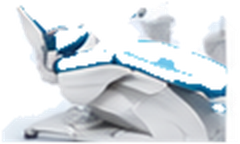
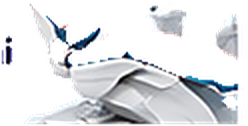
Match sidebar and card type, and clean the promo art.
Drop leftover letters from the sidebar illustrations, size the menu, chips, badges, and meta to the 1440 design, and download the cropped certificate image.

diff --git a/src/components/shop/desktop/market-frame.css b/src/components/shop/desktop/market-frame.css
@@ -42,12 +42,12 @@
 .brd-q .i { font-size: calc(.85 * var(--u)); }
 .brd-nav { display: flex; align-items: center; gap: calc(.15 * var(--u)); flex: none; }
 .brd-nav.tight { gap: calc(.04 * var(--u)); }
-.brd-nav.tight a { font-size: calc(.62 * var(--u)); padding: calc(.3 * var(--u)) calc(.26 * var(--u)) calc(.35 * var(--u)); }
+.brd-nav.tight a { font-size: calc(.92 * var(--u)); padding: calc(.3 * var(--u)) calc(.22 * var(--u)) calc(.35 * var(--u)); }
 .brd-nav.tight a.on::after { left: calc(.26 * var(--u)); right: calc(.26 * var(--u)); }
 .brd-nav a {
   position: relative;
-  font-size: calc(.68 * var(--u));
-  font-weight: 650;
+  font-size: calc(1 * var(--u));
+  font-weight: 600;
   color: #3d4f6a;
   padding: calc(.35 * var(--u)) calc(.4 * var(--u)) calc(.4 * var(--u));
   white-space: nowrap;
@@ -113,19 +113,19 @@
   display: flex;
   flex-direction: column;
 }
-.brd-navlist { display: flex; flex-direction: column; gap: calc(.08 * var(--u)); }
+.brd-navlist { display: flex; flex-direction: column; gap: calc(.42 * var(--u)); }
 .brd-item {
   display: flex;
   align-items: center;
-  gap: calc(.55 * var(--u));
-  min-height: calc(2.15 * var(--u));
+  gap: calc(.6 * var(--u));
+  min-height: calc(2.56 * var(--u));
   padding: 0 calc(.55 * var(--u));
   border-radius: calc(.45 * var(--u));
   color: #24344d;
-  font-size: calc(.68 * var(--u));
+  font-size: calc(1.07 * var(--u));
   font-weight: 600;
 }
-.brd-item .i { font-size: calc(.95 * var(--u)); color: #3d4f6a; }
+.brd-item .i { font-size: calc(1.42 * var(--u)); color: #3d4f6a; }
 .brd-item:hover { background: #eef3f9; }
 .brd-item.on { background: #e8f1ff; color: #0066ff; }
 .brd-item.on .i { color: #0066ff; }
@@ -133,16 +133,16 @@
 .brd-promo {
   margin-top: calc(.55 * var(--u));
   background: linear-gradient(180deg, #e8f3ff, #f4f8ff);
-  border-radius: calc(.6 * var(--u));
-  padding: calc(.65 * var(--u)) calc(.7 * var(--u)) calc(.7 * var(--u));
+  border-radius: calc(.7 * var(--u));
+  padding: calc(.7 * var(--u)) calc(.75 * var(--u)) calc(.75 * var(--u));
   position: relative;
   overflow: hidden;
-  min-height: calc(7.6 * var(--u));
+  min-height: calc(9.2 * var(--u));
   flex: none;
 }
 .brd-promo .crown { color: #e6b325; font-size: calc(1.1 * var(--u)); }
-.brd-promo b { display: block; margin-top: calc(.25 * var(--u)); font-size: calc(.72 * var(--u)); line-height: 1.25; max-width: calc(8.5 * var(--u)); }
-.brd-promo small { display: block; margin-top: calc(.15 * var(--u)); color: #5b6b82; font-size: calc(.56 * var(--u)); line-height: 1.35; max-width: calc(8.2 * var(--u)); }
+.brd-promo b { display: block; margin-top: calc(.25 * var(--u)); font-size: calc(1.22 * var(--u)); font-weight: 700; line-height: 1.25; max-width: calc(9.2 * var(--u)); }
+.brd-promo small { display: block; margin-top: calc(.15 * var(--u)); color: #5b6b82; font-size: calc(.86 * var(--u)); font-weight: 500; line-height: 1.35; max-width: calc(8.6 * var(--u)); }
 .brd-promo .go {
   margin-top: calc(.45 * var(--u));
   height: calc(1.7 * var(--u));
@@ -150,8 +150,8 @@
   border-radius: calc(.4 * var(--u));
   background: #0066ff;
   color: #fff;
-  font-size: calc(.62 * var(--u));
-  font-weight: 750;
+  font-size: calc(.92 * var(--u));
+  font-weight: 700;
   display: inline-flex;
   align-items: center;
   gap: calc(.2 * var(--u));
@@ -172,7 +172,7 @@
 .brd-main { flex: 1; min-width: 0; padding: calc(1.7 * var(--u)) calc(1 * var(--u)) calc(1.2 * var(--u)); }
 .brd-head { display: flex; align-items: flex-start; justify-content: space-between; gap: calc(.8 * var(--u)); margin-bottom: calc(2.1 * var(--u)); }
 .brd-head h1 { margin: 0; font-size: calc(3.05 * var(--u)); line-height: 1.15; letter-spacing: -.02em; }
-.brd-head p { margin: calc(.12 * var(--u)) 0 0; color: #6a7c93; font-size: calc(.72 * var(--u)); }
+.brd-head p { margin: calc(.12 * var(--u)) 0 0; color: #6a7c93; font-size: calc(.92 * var(--u)); font-weight: 500; }
 .brd-badge {
   flex: none;
   display: flex;
@@ -192,8 +192,8 @@
   place-items: center;
   font-size: calc(.95 * var(--u));
 }
-.brd-badge b { display: block; font-size: calc(.72 * var(--u)); color: #0066ff; }
-.brd-badge span { display: block; color: #6a7c93; font-size: calc(.56 * var(--u)); }
+.brd-badge b { display: block; font-size: calc(1 * var(--u)); font-weight: 700; color: #0066ff; }
+.brd-badge span { display: block; color: #6a7c93; font-size: calc(.86 * var(--u)); font-weight: 500; }
 
 .brd-tools { display: flex; gap: calc(.55 * var(--u)); margin-bottom: calc(1.6 * var(--u)); }
 .brd-search {
@@ -241,25 +241,25 @@
 .sh .brd-letters button {
   flex: 1;
   min-width: 0;
-  height: calc(1.7 * var(--u));
+  height: calc(2 * var(--u));
   border-radius: calc(.4 * var(--u));
   background: #fff;
   border: 1px solid #e6edf5;
   color: #5c6d84;
-  font-size: calc(.62 * var(--u));
-  font-weight: 750;
+  font-size: calc(.92 * var(--u));
+  font-weight: 650;
   padding: 0;
 }
 .sh .brd-letters button.all { flex: 1.7; }
 .sh .brd-letters button.on { background: #0066ff; border-color: #0066ff; color: #fff; }
 
-.brd-grid { display: grid; grid-template-columns: repeat(5, minmax(0, 1fr)); gap: calc(.55 * var(--u)); }
+.brd-grid { display: grid; grid-template-columns: repeat(5, minmax(0, 1fr)); gap: calc(.95 * var(--u)); }
 .brd-card {
   background: #fff;
   border: 1px solid #e8eef6;
-  border-radius: calc(.6 * var(--u));
+  border-radius: calc(.7 * var(--u));
   padding: calc(.55 * var(--u)) calc(.6 * var(--u)) calc(.5 * var(--u));
-  box-shadow: 0 calc(.06 * var(--u)) calc(.3 * var(--u)) rgba(20, 40, 80, .04);
+  box-shadow: 0 calc(.12 * var(--u)) calc(.7 * var(--u)) rgba(20, 40, 80, .08);
   display: flex;
   flex-direction: column;
   min-width: 0;
@@ -268,9 +268,9 @@
 .brd-card:hover { border-color: #c5d9ff; box-shadow: 0 calc(.15 * var(--u)) calc(.5 * var(--u)) rgba(0, 102, 255, .08); }
 .brd-mark { height: calc(4.5 * var(--u)); display: grid; place-items: center; }
 .brd-card h2 { margin: calc(.15 * var(--u)) 0 0; font-size: calc(1.07 * var(--u)); font-weight: 600; line-height: 1.2; }
-.brd-card .where { display: flex; align-items: center; gap: calc(.25 * var(--u)); margin-top: calc(.12 * var(--u)); color: #6a7c93; font-size: calc(.58 * var(--u)); }
+.brd-card .where { display: flex; align-items: center; gap: calc(.25 * var(--u)); margin-top: calc(.12 * var(--u)); color: #6a7c93; font-size: calc(.86 * var(--u)); font-weight: 500; }
 .brd-foot { margin-top: auto; display: flex; align-items: center; justify-content: space-between; gap: calc(.3 * var(--u)); padding-top: calc(.35 * var(--u)); }
-.brd-foot em { color: #0066ff; font-style: normal; font-weight: 750; font-size: calc(.62 * var(--u)); }
+.brd-foot em { color: #0066ff; font-style: normal; font-weight: 700; font-size: calc(.92 * var(--u)); }
 .brd-go {
   width: calc(1.45 * var(--u));
   height: calc(1.45 * var(--u));

diff --git a/src/components/shop/desktop/aksiyalar.css b/src/components/shop/desktop/aksiyalar.css
@@ -1,6 +1,6 @@
 .sh .ax-head { display: flex; align-items: flex-start; justify-content: space-between; gap: calc(.8 * var(--u)); margin-bottom: calc(1.3 * var(--u)); }
 .sh .ax-head h1 { margin: 0; font-size: calc(3.05 * var(--u)); line-height: 1.15; letter-spacing: -.02em; }
-.sh .ax-head p { margin: calc(.1 * var(--u)) 0 0; color: #6a7c93; font-size: calc(.72 * var(--u)); }
+.sh .ax-head p { margin: calc(.1 * var(--u)) 0 0; color: #6a7c93; font-size: calc(.92 * var(--u)); font-weight: 500; }
 .sh .ax-tools { display: flex; gap: calc(.45 * var(--u)); flex: none; }
 .sh .ax-search {
   width: calc(16 * var(--u));
@@ -42,26 +42,26 @@
 }
 .sh .ax-chips { display: flex; gap: calc(.35 * var(--u)); margin-bottom: calc(2.5 * var(--u)); flex-wrap: wrap; }
 .sh .ax-chips button {
-  height: calc(1.7 * var(--u));
-  padding: 0 calc(.7 * var(--u));
+  height: calc(2 * var(--u));
+  padding: 0 calc(.75 * var(--u));
   border-radius: calc(1 * var(--u));
   background: #fff;
   border: 1px solid #e6edf5;
   color: #3d4f6a;
-  font-size: calc(.62 * var(--u));
-  font-weight: 700;
+  font-size: calc(.92 * var(--u));
+  font-weight: 650;
 }
 .sh .ax-chips button.on { background: #0066ff; border-color: #0066ff; color: #fff; }
-.sh .ax-grid { display: grid; grid-template-columns: repeat(4, minmax(0, 1fr)); gap: calc(.55 * var(--u)); }
+.sh .ax-grid { display: grid; grid-template-columns: repeat(4, minmax(0, 1fr)); gap: calc(.85 * var(--u)); }
 .sh .ax-card {
   background: #fff;
   border: 1px solid #e8eef6;
-  border-radius: calc(.6 * var(--u));
+  border-radius: calc(.7 * var(--u));
   padding: calc(.45 * var(--u));
   min-width: 0;
   display: flex;
   flex-direction: column;
-  box-shadow: 0 calc(.06 * var(--u)) calc(.3 * var(--u)) rgba(20, 40, 80, .04);
+  box-shadow: 0 calc(.12 * var(--u)) calc(.7 * var(--u)) rgba(20, 40, 80, .08);
 }
 .sh .ax-ph { position: relative; height: calc(12.65 * var(--u)); border-radius: calc(.45 * var(--u)); background: #f4f7fb; overflow: hidden; }
 .sh .ax-ph img { width: 100%; height: 100%; object-fit: cover; object-position: center; }
@@ -101,15 +101,15 @@
   gap: calc(.25 * var(--u));
   margin-top: calc(.35 * var(--u));
   color: #ef3b3b;
-  font-size: calc(.62 * var(--u));
+  font-size: calc(.86 * var(--u));
   font-weight: 750;
   font-variant-numeric: tabular-nums;
 }
 .sh .ax-time .i { font-size: calc(.72 * var(--u)); }
 .sh .ax-card h3 { margin: calc(.28 * var(--u)) 0 0; font-size: calc(1.07 * var(--u)); font-weight: 600; line-height: 1.25; min-height: calc(2.6 * var(--u)); }
 .sh .ax-brand { margin: calc(.08 * var(--u)) 0 0; color: #8b9bb0; font-size: calc(.86 * var(--u)); font-weight: 500; }
-.sh .ax-meta { display: flex; align-items: center; gap: calc(.25 * var(--u)); margin-top: calc(.2 * var(--u)); color: #5c6d84; font-size: calc(.58 * var(--u)); }
-.sh .ax-meta .star { color: #f5b400; fill: #f5b400; font-size: calc(.68 * var(--u)); }
+.sh .ax-meta { display: flex; align-items: center; gap: calc(.3 * var(--u)); margin-top: calc(.28 * var(--u)); color: #5c6d84; font-size: calc(.86 * var(--u)); }
+.sh .ax-meta .star { color: #f5b400; fill: #f5b400; font-size: calc(1 * var(--u)); }
 .sh .ax-meta .sold { margin-left: auto; color: #8b9bb0; }
 .sh .ax-buy { display: flex; align-items: flex-end; justify-content: space-between; gap: calc(.4 * var(--u)); margin-top: calc(.35 * var(--u)); }
 .sh .ax-buy b { display: block; color: #0066ff; font-size: calc(1.42 * var(--u)); font-weight: 800; letter-spacing: -.02em; line-height: 1.1; }

diff --git a/src/components/specialists/desktop/mutaxassislar.css b/src/components/specialists/desktop/mutaxassislar.css
@@ -1,6 +1,6 @@
 .sh .mx-head { display: flex; align-items: flex-start; justify-content: space-between; gap: calc(.6 * var(--u)); }
 .sh .mx-head h1 { margin: 0; font-size: calc(3.05 * var(--u)); line-height: 1.15; letter-spacing: -.02em; }
-.sh .mx-head p { margin: calc(.1 * var(--u)) 0 0; color: #6a7c93; font-size: calc(.72 * var(--u)); }
+.sh .mx-head p { margin: calc(.1 * var(--u)) 0 0; color: #6a7c93; font-size: calc(.92 * var(--u)); font-weight: 500; }
 .sh .mx-badges { display: flex; gap: calc(.4 * var(--u)); flex: none; }
 .sh .mx-badges .brd-badge b, .sh .mx-badges .brd-badge span { white-space: nowrap; }
 
@@ -50,27 +50,27 @@
 .sh .mx-chips { display: flex; gap: calc(.28 * var(--u)); margin-bottom: calc(2 * var(--u)); }
 .sh .mx-chips button {
   flex: none;
-  height: calc(1.65 * var(--u));
-  padding: 0 calc(.58 * var(--u));
+  height: calc(2 * var(--u));
+  padding: 0 calc(.7 * var(--u));
   border-radius: calc(1 * var(--u));
   background: #fff;
   border: 1px solid #e6edf5;
   color: #3d4f6a;
-  font-size: calc(.56 * var(--u));
-  font-weight: 700;
+  font-size: calc(.92 * var(--u));
+  font-weight: 650;
   white-space: nowrap;
 }
 .sh .mx-chips button.on { background: #0066ff; border-color: #0066ff; color: #fff; }
 
-.sh .mx-grid { display: grid; grid-template-columns: repeat(4, minmax(0, 1fr)); gap: calc(.5 * var(--u)); }
+.sh .mx-grid { display: grid; grid-template-columns: repeat(4, minmax(0, 1fr)); gap: calc(.85 * var(--u)); }
 .sh .mx-card {
   position: relative;
   background: #fff;
   border: 1px solid #e8eef6;
-  border-radius: calc(.6 * var(--u));
+  border-radius: calc(.7 * var(--u));
   padding: calc(.4 * var(--u));
   min-width: 0;
-  box-shadow: 0 calc(.06 * var(--u)) calc(.3 * var(--u)) rgba(20, 40, 80, .04);
+  box-shadow: 0 calc(.12 * var(--u)) calc(.7 * var(--u)) rgba(20, 40, 80, .08);
   display: flex;
   flex-direction: column;
 }
@@ -112,10 +112,10 @@
 .sh .mx-heart.on .i { fill: currentColor; }
 .sh .mx-card h3 { margin: calc(.4 * var(--u)) 0 0; font-size: calc(1.07 * var(--u)); font-weight: 600; }
 .sh .mx-role { margin: calc(.04 * var(--u)) 0 0; color: #6a7c93; font-size: calc(.86 * var(--u)); font-weight: 500; }
-.sh .mx-rate { display: flex; align-items: center; gap: calc(.2 * var(--u)); margin-top: calc(.28 * var(--u)); font-size: calc(.58 * var(--u)); color: #5b6b82; }
-.sh .mx-rate .star { color: #f5b400; fill: #f5b400; font-size: calc(.72 * var(--u)); }
+.sh .mx-rate { display: flex; align-items: center; gap: calc(.28 * var(--u)); margin-top: calc(.32 * var(--u)); font-size: calc(.86 * var(--u)); color: #5b6b82; }
+.sh .mx-rate .star { color: #f5b400; fill: #f5b400; font-size: calc(1 * var(--u)); }
 .sh .mx-rate b { color: #24344d; font-weight: 800; }
-.sh .mx-meta { display: grid; grid-template-columns: 1fr 1fr; gap: calc(.18 * var(--u)) calc(.3 * var(--u)); margin-top: calc(.35 * var(--u)); color: #5b6b82; font-size: calc(.54 * var(--u)); }
+.sh .mx-meta { display: grid; grid-template-columns: 1fr 1fr; gap: calc(.22 * var(--u)) calc(.35 * var(--u)); margin-top: calc(.4 * var(--u)); color: #5b6b82; font-size: calc(.8 * var(--u)); }
 .sh .mx-meta span { display: inline-flex; align-items: center; gap: calc(.18 * var(--u)); min-width: 0; }
 .sh .mx-meta .i { font-size: calc(.7 * var(--u)); color: #8b9bb0; }
 .sh .mx-actions { display: flex; gap: calc(.3 * var(--u)); margin-top: calc(.4 * var(--u)); }

diff --git a/src/components/crm/desktop/crm.css b/src/components/crm/desktop/crm.css
@@ -79,10 +79,10 @@
 
 .sh .cert-stats { display: flex; gap: calc(.4 * var(--u)); }
 .sh .cert-chips { display: flex; gap: calc(.28 * var(--u)); margin-bottom: calc(.45 * var(--u)); flex-wrap: wrap; }
-.sh .cert-chips button { height: calc(1.6 * var(--u)); padding: 0 calc(.6 * var(--u)); border-radius: calc(.4 * var(--u)); background: #fff; border: 1px solid #e6edf5; font-size: calc(.58 * var(--u)); font-weight: 750; color: #24344d; }
+.sh .cert-chips button { height: calc(2 * var(--u)); padding: 0 calc(.7 * var(--u)); border-radius: calc(.45 * var(--u)); background: #fff; border: 1px solid #e6edf5; font-size: calc(.92 * var(--u)); font-weight: 650; color: #24344d; }
 .sh .cert-chips button.on { background: #0066ff; border-color: #0066ff; color: #fff; }
-.sh .cert-grid { display: grid; grid-template-columns: repeat(3, minmax(0, 1fr)); gap: calc(.5 * var(--u)); }
-.sh .cert-card { background: #fff; border: 1px solid #e8eef6; border-radius: calc(.55 * var(--u)); padding: calc(.4 * var(--u)); min-width: 0; }
+.sh .cert-grid { display: grid; grid-template-columns: repeat(3, minmax(0, 1fr)); gap: calc(.9 * var(--u)); }
+.sh .cert-card { background: #fff; border: 1px solid #e8eef6; border-radius: calc(.7 * var(--u)); padding: calc(.45 * var(--u)); min-width: 0; box-shadow: 0 calc(.12 * var(--u)) calc(.7 * var(--u)) rgba(20, 40, 80, .08); }
 .sh .cert-paper { position: relative; height: calc(13.8 * var(--u)); border-radius: calc(.4 * var(--u)); overflow: hidden; padding: calc(.45 * var(--u)); color: #14315c; border: 2px solid rgba(212, 175, 55, .75); box-shadow: inset 0 0 0 3px rgba(255,255,255,.45); }
 .sh .cert-paper.photo { padding: 0; border: 0; box-shadow: none; background: #f4f7fb; }
 .sh .cert-paper.photo img { width: 100%; height: 100%; object-fit: cover; object-position: top center; }
@@ -116,7 +116,7 @@
 .sh .cert-full .go { height: calc(1.9 * var(--u)); padding: 0 calc(1 * var(--u)); border-radius: calc(.4 * var(--u)); background: #0066ff; color: #fff; font-weight: 750; font-size: calc(.66 * var(--u)); }
 .sh .cert-card h2 { margin: calc(.35 * var(--u)) 0 0; font-size: calc(1.07 * var(--u)); font-weight: 600; }
 .sh .cert-card .meta { margin: calc(.08 * var(--u)) 0 0; color: #6a7c93; font-size: calc(.86 * var(--u)); font-weight: 500; }
-.sh .cert-card .when { display: flex; gap: calc(.45 * var(--u)); margin-top: calc(.2 * var(--u)); color: #5b6b82; font-size: calc(.54 * var(--u)); }
+.sh .cert-card .when { display: flex; gap: calc(.45 * var(--u)); margin-top: calc(.28 * var(--u)); color: #5b6b82; font-size: calc(.8 * var(--u)); }
 .sh .cert-ops { display: flex; gap: calc(.25 * var(--u)); margin-top: calc(.35 * var(--u)); }
 .sh .cert-ops button { flex: 1; height: calc(1.55 * var(--u)); border-radius: calc(.35 * var(--u)); border: 1px solid #e6edf5; background: #fff; font-size: calc(.54 * var(--u)); font-weight: 750; color: #24344d; display: inline-flex; align-items: center; justify-content: center; gap: calc(.15 * var(--u)); }
 .sh .cert-view { width: min(calc(42 * var(--u)), 92vw); }

diff --git a/src/components/education/desktop/onlayn-darslar.css b/src/components/education/desktop/onlayn-darslar.css
@@ -1,6 +1,6 @@
 .sh .od-head { display: flex; align-items: flex-start; justify-content: space-between; gap: calc(.6 * var(--u)); }
 .sh .od-head h1 { margin: 0; font-size: calc(3.05 * var(--u)); line-height: 1.15; letter-spacing: -.02em; }
-.sh .od-head p { margin: calc(.1 * var(--u)) 0 0; color: #6a7c93; font-size: calc(.72 * var(--u)); }
+.sh .od-head p { margin: calc(.1 * var(--u)) 0 0; color: #6a7c93; font-size: calc(.92 * var(--u)); font-weight: 500; }
 .sh .od-badges { display: flex; gap: calc(.4 * var(--u)); flex: none; }
 .sh .od-badges .brd-badge { padding: calc(.35 * var(--u)) calc(.55 * var(--u)); }
 .sh .od-badges .brd-badge b { white-space: nowrap; }
@@ -52,26 +52,26 @@
 .sh .od-chips { display: flex; gap: calc(.28 * var(--u)); margin-bottom: calc(1.7 * var(--u)); }
 .sh .od-chips button {
   flex: none;
-  height: calc(1.65 * var(--u));
-  padding: 0 calc(.62 * var(--u));
+  height: calc(2 * var(--u));
+  padding: 0 calc(.7 * var(--u));
   border-radius: calc(1 * var(--u));
   background: #fff;
   border: 1px solid #e6edf5;
   color: #3d4f6a;
-  font-size: calc(.58 * var(--u));
-  font-weight: 700;
+  font-size: calc(.92 * var(--u));
+  font-weight: 650;
   white-space: nowrap;
 }
 .sh .od-chips button.on { background: #0066ff; border-color: #0066ff; color: #fff; }
 
-.sh .od-grid { display: grid; grid-template-columns: repeat(4, minmax(0, 1fr)); gap: calc(.5 * var(--u)); }
+.sh .od-grid { display: grid; grid-template-columns: repeat(4, minmax(0, 1fr)); gap: calc(.85 * var(--u)); }
 .sh .od-card {
   position: relative;
   background: #fff;
   border: 1px solid #e8eef6;
-  border-radius: calc(.6 * var(--u));
+  border-radius: calc(.7 * var(--u));
   min-width: 0;
-  box-shadow: 0 calc(.06 * var(--u)) calc(.3 * var(--u)) rgba(20, 40, 80, .04);
+  box-shadow: 0 calc(.12 * var(--u)) calc(.7 * var(--u)) rgba(20, 40, 80, .08);
 }
 .sh .od-card:hover { border-color: #c5d9ff; box-shadow: 0 calc(.15 * var(--u)) calc(.5 * var(--u)) rgba(0, 102, 255, .08); }
 .sh .od-hit { display: block; padding: calc(.4 * var(--u)); color: inherit; }
@@ -146,7 +146,7 @@
   align-items: center;
   gap: calc(.22 * var(--u));
   margin-top: calc(.32 * var(--u));
-  font-size: calc(.56 * var(--u));
+  font-size: calc(.86 * var(--u));
   color: #5b6b82;
 }
 .sh .od-meta .star { color: #f5b400; fill: #f5b400; font-size: calc(.7 * var(--u)); }

diff --git a/src/components/crm/desktop/CertificatesDesktop.tsx b/src/components/crm/desktop/CertificatesDesktop.tsx
@@ -73,7 +73,28 @@ const paperFill: Record<Certificate["theme"], string> = {
   royal: "#dbeafe",
 };
 
+const designPreview: Record<string, string> = {
+  "cert-implant": "/img/design-pr13/certs/cert-implant.png",
+  "cert-endo": "/img/design-pr13/certs/cert-endo.png",
+  "cert-orto": "/img/design-pr13/certs/cert-orto.png",
+  "cert-cad": "/img/design-pr13/certs/cert-cad.png",
+  "cert-paro": "/img/design-pr13/certs/cert-paro.png",
+  "cert-child": "/img/design-pr13/certs/cert-child.png",
+};
+
 async function downloadCert(cert: Certificate) {
+  const preview = designPreview[cert.id];
+  if (preview) {
+    const response = await fetch(preview);
+    const blob = await response.blob();
+    const url = URL.createObjectURL(blob);
+    const link = document.createElement("a");
+    link.href = url;
+    link.download = `${cert.id}.png`;
+    link.click();
+    URL.revokeObjectURL(url);
+    return;
+  }
   const canvas = document.createElement("canvas");
   canvas.width = 1400;
   canvas.height = 900;
@@ -114,15 +135,6 @@ async function downloadCert(cert: Certificate) {
   link.click();
   downloadPdf(`${cert.id}.pdf`, ["STOMAHUB", "SERTIFIKAT", cert.holder, cert.title, `${cert.typeLabel} · ${cert.teacher}`, `${cert.dateLabel} · ${cert.place}`, `${cert.cme} CME`]);
 }
-
-const designPreview: Record<string, string> = {
-  "cert-implant": "/img/design-pr13/certs/cert-implant.png",
-  "cert-endo": "/img/design-pr13/certs/cert-endo.png",
-  "cert-orto": "/img/design-pr13/certs/cert-orto.png",
-  "cert-cad": "/img/design-pr13/certs/cert-cad.png",
-  "cert-paro": "/img/design-pr13/certs/cert-paro.png",
-  "cert-child": "/img/design-pr13/certs/cert-child.png",
-};
 
 function CertSheet({ item }: { item: Certificate }) {
   const preview = designPreview[item.id];

diff --git a/src/components/shop/desktop/kategoriyalar.css b/src/components/shop/desktop/kategoriyalar.css
@@ -1,11 +1,11 @@
-.sh .kat-grid { display: grid; grid-template-columns: repeat(3, minmax(0, 1fr)); gap: calc(.55 * var(--u)); }
+.sh .kat-grid { display: grid; grid-template-columns: repeat(3, minmax(0, 1fr)); gap: calc(1.05 * var(--u)); }
 .sh .kat-card {
   background: #fff;
   border: 1px solid #e8eef6;
-  border-radius: calc(.6 * var(--u));
+  border-radius: calc(.7 * var(--u));
   overflow: hidden;
   min-width: 0;
-  box-shadow: 0 calc(.06 * var(--u)) calc(.3 * var(--u)) rgba(20, 40, 80, .04);
+  box-shadow: 0 calc(.12 * var(--u)) calc(.7 * var(--u)) rgba(20, 40, 80, .08);
 }
 .sh .kat-card:hover { border-color: #c5d9ff; box-shadow: 0 calc(.15 * var(--u)) calc(.5 * var(--u)) rgba(0, 102, 255, .08); }
 .sh .kat-ph { height: calc(9 * var(--u)); background: #eef3f8; overflow: hidden; }
